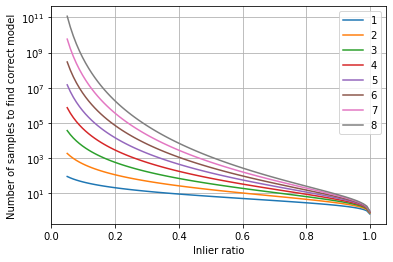
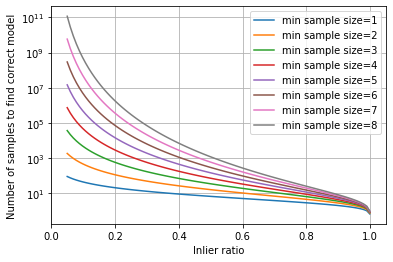
deploy: 3433de6a8003098a272c90250746748956aa12b5

Changed region(s): [[0.6412, 0.1832, 0.9771, 0.5191], [0.6412, 0.0305, 0.9771, 0.0916], [0.6412, 0.1221, 0.9466, 0.1527]]

diff --git a/2020/07/17/affine-correspondences.html b/2020/07/17/affine-correspondences.html
@@ -183,7 +183,7 @@ corners center of mass (ORB[<a class="latex_cit" id="call-ORB2011" href="#cit-OR
 <p><img src="/wide-baseline-stereo-blog/images/copied_from_nb/2020-07-17-affine-correspondences_files/att_00009.png" alt="" title="Repeatability and the number of correspondences. AffNet compared with the de facto standard Baumberg iteration according to the Mikolajczyk protocol. Left – images with illumination differences, right – with viewpoint and scale changes. SS – patch from the scale-space pyramid at the level of the detection, image – from the original image; 19 and 33 are patch sizes." /></p>
 <p>The practice is a little bit more complicated. Our recent benchmark[<a class="latex_cit" id="call-IMW2020" href="#cit-IMW2020">IMW2020</a>], which measure the accuracy of the outputed fundamental matrix, shows that the difference in using affine and similarity-covariant features is quite minor. Specifically, the relative difference between SIFT vs SIFT-Affine features is 0.5% and between Hessian-SIFT and Hessian-AffNet SIFT is 5.1%, see Table below.</p>
 <p><img src="/wide-baseline-stereo-blog/images/copied_from_nb/2020-07-17-affine-correspondences_files/att_00011.png" alt="" title="Test – Stereo results with 8k features. We report: NF --  Number of Features; NI -- Number of Inliers produced by RANSAC; and mAA@10°." /></p>
-<p>Therefore, if the only benefit of local features would be to only improve descriptor extraction stage, it would be arguably not worth it. Luckily, there are more benefit, which are more pronounced.</p>
+<p>Therefore, if the only benefit of local features would be to only improve descriptor extraction stage, it would be arguably not worth it. Luckily, there are more benefits, which are more pronounced.</p>
 
 </div>
 </div>
@@ -194,14 +194,14 @@ corners center of mass (ORB[<a class="latex_cit" id="call-ORB2011" href="#cit-OR
 <ol>
 <li>Randomly sample a minimally required number of tentative correspondences to fit the geometrical model of the scene: 4 for homography, 7 for epipolar geometry and estimate the model.</li>
 <li>Calculate "support": other correspondeces, which are consistent with the model. </li>
-<li>Repeat steps (1), (2) and outputs the model, supported with the most of correspondences. If you were lucky and have sampled all-inlier sample, meaning that all correspondences used to estimate the model were correct, you would have a correct model.</li>
+<li>Repeat steps (1), (2) and output the model which is supported with the most of correspondences. If you were lucky and have sampled all-inlier sample, meaning that all correspondences used to estimate the model were correct, you would have a correct model.</li>
 </ol>
 <p>Reality is more complicated than I have just described, but the principle is the same. 
 The most important part is the sampling and it is sensitive to inlier ratio $\nu$ - the percentage of the correct correspondences in the set. Lets denote the minimal number of correspondences required to estimate the model as <strong>m</strong>.
 To recover the correct model with the confidence <strong>p</strong> one needs to sample the number of correspondences, which is described by formula:</p>
 \begin{equation}
 N = \frac{\log{(1 - p)}}{\log{(1 - \nu^{m})}}
-\end{equation}<p>Lets plot the how the number of required samples changes with inlier ratio for confidence equal 99%. Note the log scale on Y axis.</p>
+\end{equation}<p>Lets plot the how the number of required samples changes with inlier ratio for confidence equal 99%. Note the log scale on Y axis. Different lines are for different minimal sample size <strong>m</strong>.</p>
 
 </div>
 </div>
@@ -216,7 +216,7 @@ N = \frac{\log{(1 - p)}}{\log{(1 - \nu^{m})}}
 <div class="cell border-box-sizing text_cell rendered"><div class="inner_cell">
 <div class="text_cell_render border-box-sizing rendered_html">
 <p>As you can see from the plot above, reducing the minimal sample size required for the model estimation even by 1 saves and order of magnitude of computation. 
-In reality the benefit is a smaller, as modern RANSACs like GC-RANSAC and MAGSAC could estimate the correct model from the sample containing outliers, but it is still huge, especially for low inlier rate cases.</p>
+In reality the benefit is a smaller, as modern RANSACs like GC-RANSAC[<a class="latex_cit" id="call-gcransac2018" href="#cit-gcransac2018">gcransac2018</a>] and MAGSAC[<a class="latex_cit" id="call-magsac2019" href="#cit-magsac2019">magsac2019</a>] could estimate the correct model from the sample containing outliers, but it is still huge, especially for low inlier rate cases.</p>
 <h3 id="Image-retrieval">Image retrieval<a class="anchor-link" href="#Image-retrieval"> </a></h3><p>The ideal case would be to estimate model from just a single sample and that is exactly what is done in spatial reranking paper "<strong>Object retrieval with large vocabularies and fast spatial matching</strong>"  by Philbin et.al [<a class="latex_cit" id="call-Philbin07" href="#cit-Philbin07">Philbin07</a>].</p>
 <p>Specifically, they are solving an particular object retrieval problem: given an image containing some object, return all the images from the database, which also containg the same object.</p>
 <p>The inital list of images is formed by the descriptor distance and then is reranked.
@@ -229,9 +229,9 @@ Authors propose to approximate a perspective change between two images as an aff
 <div class="cell border-box-sizing text_cell rendered"><div class="inner_cell">
 <div class="text_cell_render border-box-sizing rendered_html">
 <h3 id="Back-to-wide-baseline-stereo">Back to wide baseline stereo<a class="anchor-link" href="#Back-to-wide-baseline-stereo"> </a></h3><p>While working for spatial re-ranking, 3-degrees of freedom camera model is too rough for the wide baseline stereo.
-Yet, going from 4 point correspondences (PC) to 2 affine correspondences (AC) for homogaphy and from 7 PC to 3 AC would be huge benefit anyway for the robust model estimation.</p>
+Yet, going from 4 point correspondences (PC) to 2 affine correspondences (AC) for homogaphy and from 7 PC to 3 AC for the fundamental matrix would be huge benefit anyway for the robust model estimation.</p>
 <p>Various variant of RANSAC working for local features were proposed in the last 15 years: Perdoch et.al[<a class="latex_cit" id="call-perd2006epipolar" href="#cit-perd2006epipolar">perd2006epipolar</a>], Pritts et.al.[<a class="latex_cit" id="call-PrittsRANSAC2013" href="#cit-PrittsRANSAC2013">PrittsRANSAC2013</a>], Barath and Kukelova [<a class="latex_cit" id="call-Barath2019ICCV" href="#cit-Barath2019ICCV">Barath2019ICCV</a>], Rodríguez et.al[<a class="latex_cit" id="call-RANSACAffine2020" href="#cit-RANSACAffine2020">RANSACAffine2020</a>].</p>
-<p>Finally, the systematic study of using is presented by Barath et.al[<a class="latex_cit" id="call-barath2020making" href="#cit-barath2020making">barath2020making</a>]. They that if use naively, affine correspondence lead to worse results, because they are more noisy than point correspondences. 
+<p>Finally, the systematic study of using is presented by Barath et.al[<a class="latex_cit" id="call-barath2020making" href="#cit-barath2020making">barath2020making</a>] in "Making Affine Correspondences Work in Camera Geometry Computation" paper. Authors show that if used naively, affine correspondence lead to worse results, because they are more noisy than point correspondences. 
 However, there is a bag of tricks presented in the paper, which allow to solve the noise issue and make the affine RANSAC working in practice, resulting in orders of magnitude faster computation.</p>
 <p><img src="/wide-baseline-stereo-blog/images/copied_from_nb/2020-07-17-affine-correspondences_files/att_00013.png" alt="" title="Figure from Making Affine Correspondences Work in Camera Geometry Computation" /></p>
 
@@ -240,7 +240,7 @@ However, there is a bag of tricks presented in the paper, which allow to solve t
 </div>
 <div class="cell border-box-sizing text_cell rendered"><div class="inner_cell">
 <div class="text_cell_render border-box-sizing rendered_html">
-<h2 id="Application-specific-benefits">Application-specific benefits<a class="anchor-link" href="#Application-specific-benefits"> </a></h2><p>Beside the wide baseline stereo, local affine features and correspondences have other applications. I will briefly describe some of them here (to be updated).</p>
+<h2 id="Application-specific-benefits">Application-specific benefits<a class="anchor-link" href="#Application-specific-benefits"> </a></h2><p>Besides the wide baseline stereo, local affine features and correspondences have other applications. I will briefly describe some of them here (to be updated).</p>
 <h3 id="Image-rectification">Image rectification<a class="anchor-link" href="#Image-rectification"> </a></h3><p>Instead of matching local features between two images one might match them within a single image. Why would someone do it? This allows finding repeated pattern: think about windows, doors and so on. Typically they have the same physical size, therefore the diffrence in local features around them could tell us about the geometry of the scene and lens distortion.</p>
 <p><img src="/wide-baseline-stereo-blog/images/copied_from_nb/2020-07-17-affine-correspondences_files/att_00008.png" alt="" title="Repeated patterns detection with MSER andRootSIFT local features. Figure from the Minimal Solvers for Rectifying from Radially-Distorted Conjugate Translations, PAMI 2020 paper." /></p>
 <p>This is the idea of the series of works by Pritts and Chum.</p>
@@ -273,6 +273,8 @@ However, there is a bag of tricks presented in the paper, which allow to solve t
 <p>[<a id="cit-AffNet2018" href="#call-AffNet2018">AffNet2018</a>] D. Mishkin, F. Radenovic and J. Matas, ``<em>Repeatability is Not Enough: Learning Affine Regions via Discriminability</em>'', ECCV,  2018.</p>
 <p>[<a id="cit-PerdochRetrieval2009" href="#call-PerdochRetrieval2009">PerdochRetrieval2009</a>] M. {Perd'och}, O. {Chum} and J. {Matas}, ``<em>Efficient representation of local geometry for large scale object retrieval</em>'', CVPR,  2009.</p>
 <p>[<a id="cit-IMW2020" href="#call-IMW2020">IMW2020</a>] Jin Yuhe, Mishkin Dmytro, Mishchuk Anastasiia <em>et al.</em>, ``<em>Image Matching across Wide Baselines: From Paper to Practice</em>'', arXiv preprint arXiv:2003.01587, vol. , number , pp. ,  2020.</p>
+<p>[<a id="cit-gcransac2018" href="#call-gcransac2018">gcransac2018</a>] D. Barath and J. Matas, ``<em>Graph-Cut RANSAC</em>'', The IEEE Conference on Computer Vision and Pattern Recognition (CVPR),  2018.</p>
+<p>[<a id="cit-magsac2019" href="#call-magsac2019">magsac2019</a>] J.N. Daniel Barath, ``<em>MAGSAC: marginalizing sample consensus</em>'', CVPR,  2019.</p>
 <p>[<a id="cit-Philbin07" href="#call-Philbin07">Philbin07</a>] J. Philbin, O. Chum, M. Isard <em>et al.</em>, ``<em>Object Retrieval with Large Vocabularies and Fast Spatial Matching</em>'', CVPR,  2007.</p>
 <p>[<a id="cit-perd2006epipolar" href="#call-perd2006epipolar">perd2006epipolar</a>] M. Perd'och, J. Matas and O. Chum, ``<em>Epipolar geometry from two correspondences</em>'', ICPR,  2006.</p>
 <p>[<a id="cit-PrittsRANSAC2013" href="#call-PrittsRANSAC2013">PrittsRANSAC2013</a>] J. {Pritts}, O. {Chum} and J. {Matas}, ``<em>Approximate models for fast and accurate epipolar geometry estimation</em>'', 2013 28th International Conference on Image and Vision Computing New Zealand (IVCNZ 2013),  2013.</p>
